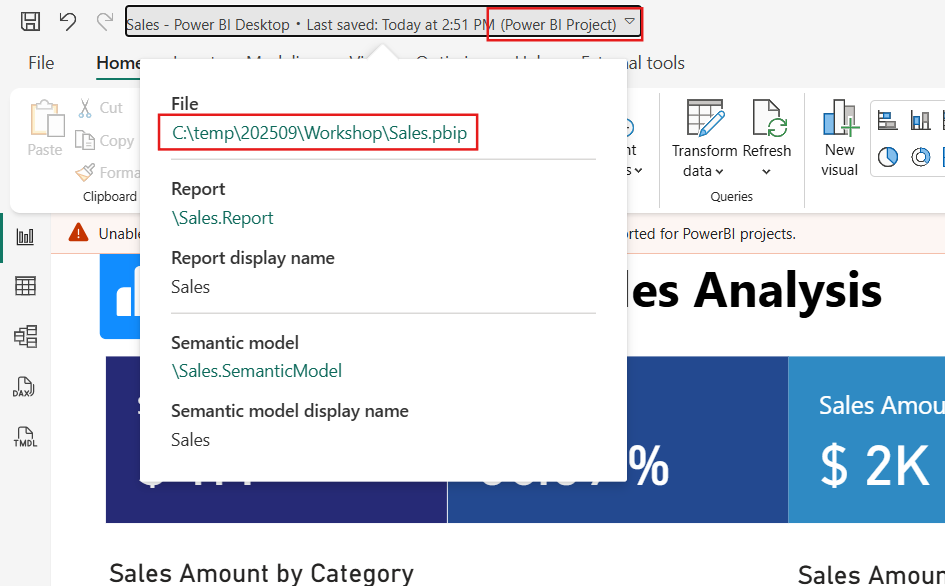
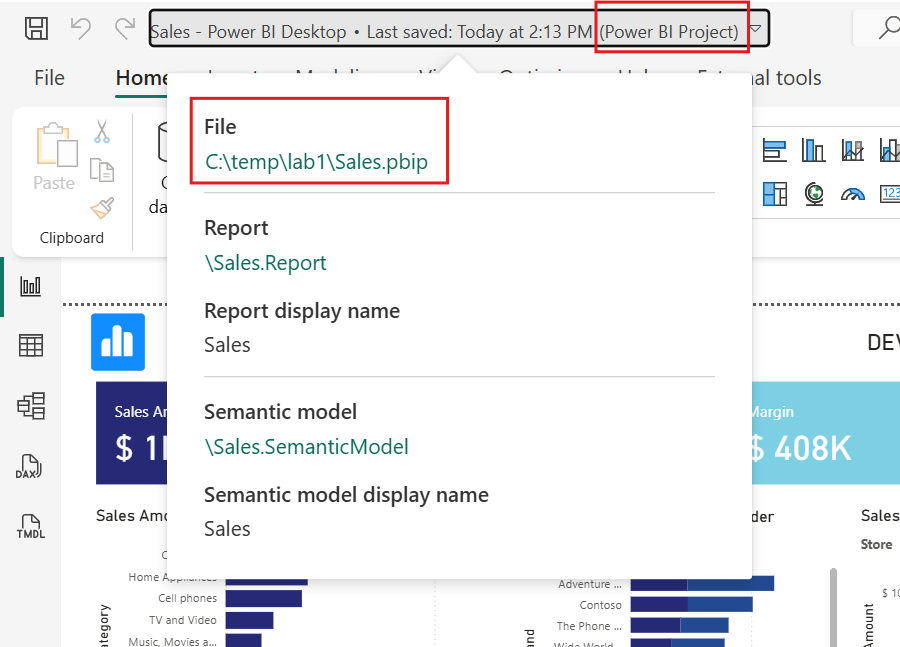
Update lab1.md with additional instructions and images for PBIP format

diff --git a/labs/lab1/lab1.md b/labs/lab1/lab1.md
@@ -25,7 +25,8 @@ Welcome to this lab where you'll get hands-on experience with the **Power BI Pro
 1. Open [resources/Sales.pbix](resources/Sales.pbix) in **Power BI Desktop**.
    
 > [!IMPORTANT]
-> This PBIX file uses mock data sourced from CSV files hosted in a public location. When prompted for authentication, select **Anonymous** - the data should refresh without any errors.
+> * If you downloaded the repo code as a ZIP file, the PBIX file won't be included because it's managed with Git LFS. To get the PBIX, please download it directly from the repository and replace the local file. [Download Sales.pbix](https://github.com/RuiRomano/workshops-pbinextstep2025/raw/refs/heads/main/labs/lab1/resources/Sales.pbix?download=)
+> * This PBIX file uses mock data sourced from CSV files hosted in a public location. When prompted for authentication, select **Anonymous** - the data should refresh without any errors.
 
 2. Go to **File > Save As**.
 3. Choose a folder (e.g. `c:\temp\lab1`) and select **Save as type**: `Power BI Project Files (*.pbip)`
@@ -50,7 +51,7 @@ Welcome to this lab where you'll get hands-on experience with the **Power BI Pro
 
 ### Steps
 
-1. Open Visual Studio Code
+1. Open **Visual Studio Code**
 2. Go to **File > Open Folder...** and open the saved PBIP folder.
 3. Open and explore the following key files and folders:
    
@@ -58,11 +59,16 @@ Welcome to this lab where you'll get hands-on experience with the **Power BI Pro
     |----------------------------------------|-------------|
     | `*.pbip`                               | Main entry point file for **Power BI Desktop**. Includes a reference to the Report folder. **Optional** file; **Power BI Desktop** can also open a report by opening the `definition.pbir`. |
     | `*.Report/definition.pbir`             | Contains the overall report definition and key configuration settings such as folder version. Includes a reference to the **semantic model** — typically via a **relative byPath reference**, but can also use an **absolute byConnection reference** to connect to a model hosted in Fabric. |
-    | `*.Report/definition`                  | Contains the report definition in [**PBIR format**](https://learn.microsoft.com/en-us/power-bi/developer/projects/projects-report?tabs=v2%2Cdesktop#pbir-format), where each component (pages, visuals, bookmarks, etc.) is organized into its own **folders** and **JSON files**. |
-    | `*.SemanticModel/definition`           | Contains the semantic model definition in [**TMDL file format**](https://learn.microsoft.com/en-us/power-bi/developer/projects/projects-dataset#tmdl-format), where each component (tables, roles, cultures, etc.) is organized into its own **folders** and **TMDL documents** using the [**TMDL language**](https://learn.microsoft.com/en-us/analysis-services/tmdl/tmdl-overview?view=sql-analysis-services-2025). |
-    | `*.SemanticModel/.platform`           | Fabric platform file for the semantic model and report. Contains properties such as `displayName`, `description`, and `logicalId` (required for deployment and Fabric Git integration). |
-    | `*.Report/.platform`                  | Same as the semantic model `.platform` file, but the `displayName` property is used to define the **Power BI Desktop** window title. |
-    | `*.SemanticModel/.pbi/cache.abf`      | A **local cached copy** of the semantic model’s data stored as an Analysis Services Backup File (ABF). Acts as a **user-specific cache** and **should not be shared** via Git. **Power BI Desktop** can open the PBIP without it, but the model will be empty, requiring a data refresh. |
+    | `*.Report/definition`                  | Contains the report definition in [**PBIR format**](https://learn.microsoft.com/en-us/power-bi/developer/projects/projects-report?tabs=v2%2Cdesktop#pbir-format), where each report object (pages, visuals, bookmarks, etc.) is organized into its own **folders** and **JSON files**. |
+    | `*.SemanticModel/definition`           | Contains the semantic model definition in [**TMDL file format**](https://learn.microsoft.com/en-us/power-bi/developer/projects/projects-dataset#tmdl-format), where each semantic model object (tables, roles, cultures, etc.) is organized into its own **folders** and **TMDL documents** using the [**TMDL language**](https://learn.microsoft.com/en-us/analysis-services/tmdl/tmdl-overview?view=sql-analysis-services-2025). |
+    | `*.SemanticModel/.platform`           | Fabric platform file for the semantic model. Contains properties such as `displayName`, `description`, and `logicalId` (required for deployment and Fabric Git integration). |
+    | `*.Report/.platform`                  | Same as the semantic model `.platform` file, but the `displayName` property is also used to define the **Power BI Desktop** window title. |
+    | `*.SemanticModel/.pbi/cache.abf`      | A **local cached copy** of the semantic model’s data stored as an Analysis Services Backup File (ABF). Acts as a **user-specific cache** and **should not be shared** via Git. **Power BI Desktop** can open the PBIP without it, but the model will be empty, requiring a data refresh. You can safely drop this file whenever you wish to share your development without compromising the data in it.|
+4. Each file includes a `$schema` property at the top of the JSON document, which specifies the document's version. This property also helps clarify the meaning of other properties and can assist in detecting syntax errors when editing the files manually.
+
+    ![pbip-schemas](resources/img/pbip-schemas.png)
+
+    Learn more about PBIP JSON schemas in the [documentation](https://learn.microsoft.com/en-us/power-bi/developer/projects/projects-overview#json-file-schemas).
 
 > [!IMPORTANT]
 > * Simply being able to explore PBIP files using a file explorer or code editor is a significant advantage. For example, you no longer need to wait minutes for **Power BI Desktop** to open a PBIX just to review a measure's DAX code or to confirm which database your semantic model is connected to by inspecting a table's Power Query code - Just opent he files and look at the code!
@@ -80,7 +86,7 @@ Welcome to this lab where you'll get hands-on experience with the **Power BI Pro
    You should end up with a folder structure like:
 
     ```text    
-    PBIP/
+    Lab1/
     ├── NewReport.Report/
     ├── Sales.Report/
     ├── Sales.SemanticModel/
@@ -89,9 +95,12 @@ Welcome to this lab where you'll get hands-on experience with the **Power BI Pro
     ```
 
 > [!TIP]
-> The template report uses descriptive folder names for pages and visuals. By default, new items like pages are saved with unique IDs by **Power BI Desktop**, but you can rename these folders to use meaningful names for easier navigation and management.
+> The template report uses descriptive folder names for pages and visuals. By default, new report objects like pages are saved with unique IDs by **Power BI Desktop**, but you can rename these folders to use meaningful names for easier navigation and source code management.
+> ![pbir-report-friendly-object-names](resources/img/pbir-friendly-names.png)
 
 2. Ensure the `NewReport.Report/definition.pbir` has a valid relative reference to `Sales.SemanticModel` in the `byPath` property. 
+
+![pbip-report-bypath]((resources/img/pbip-report-bypath.png)
 
 > [!TIP]
 > The PBIP format supports multiple reports and semantic models within a single folder, similar to a Fabric workspace. You can manage several reports and models together, and it's not necessary to have a separate `.pbip` file for each report - each report can be opened directly from its `.pbir` file inside its respective report folder.
@@ -105,8 +114,8 @@ Welcome to this lab where you'll get hands-on experience with the **Power BI Pro
 7. Observe it's using the colors of the theme you picked.
 > [!TIP]
 > One of the key benefits of the PBIP format is the ability to customize reports, pages, or visuals using straightforward file operations before opening them in **Power BI Desktop**. This makes it easy to create reusable templates for your development workflows.
-8. Save the report in **Power BI Desktop**, observe that `.platform` file is automatically generated in the report folder.
-9.  Create a new page with some visuals, save your changes, and observe that a new page folder is created inside the report `definition` folder.
+1. Save the report in **Power BI Desktop**, observe that `.platform` file is automatically generated in the report folder.
+2.  Create a new page with some visuals, save your changes, and observe that a new page folder is created inside the report `definition` folder.
 
 ## 4. Connect a report to a semantic model in service
 
